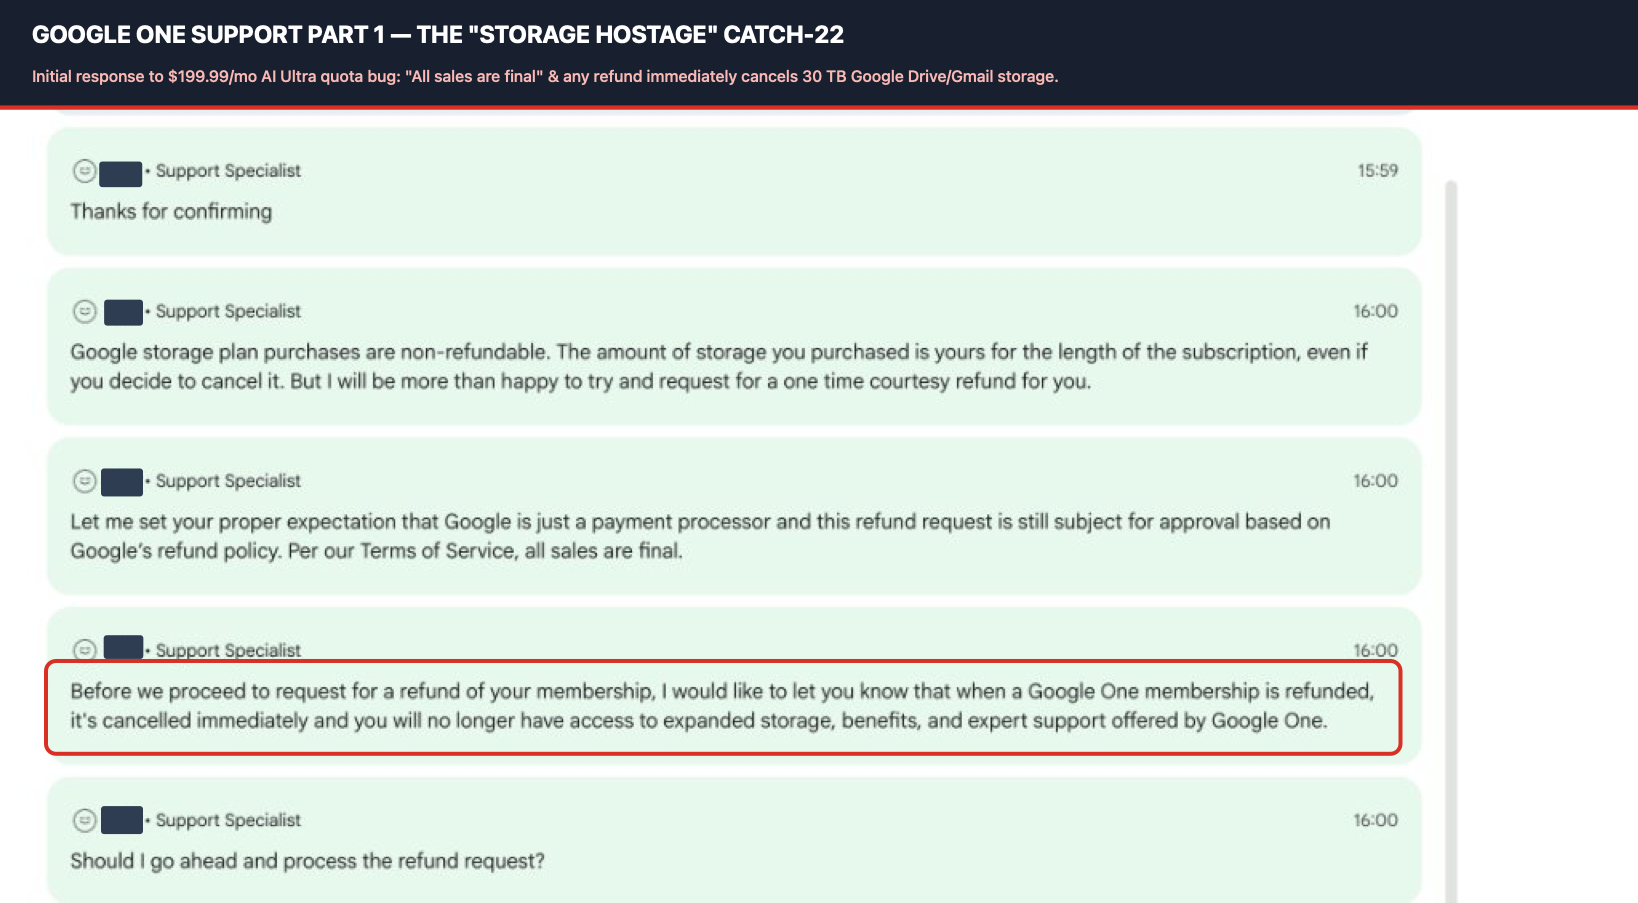
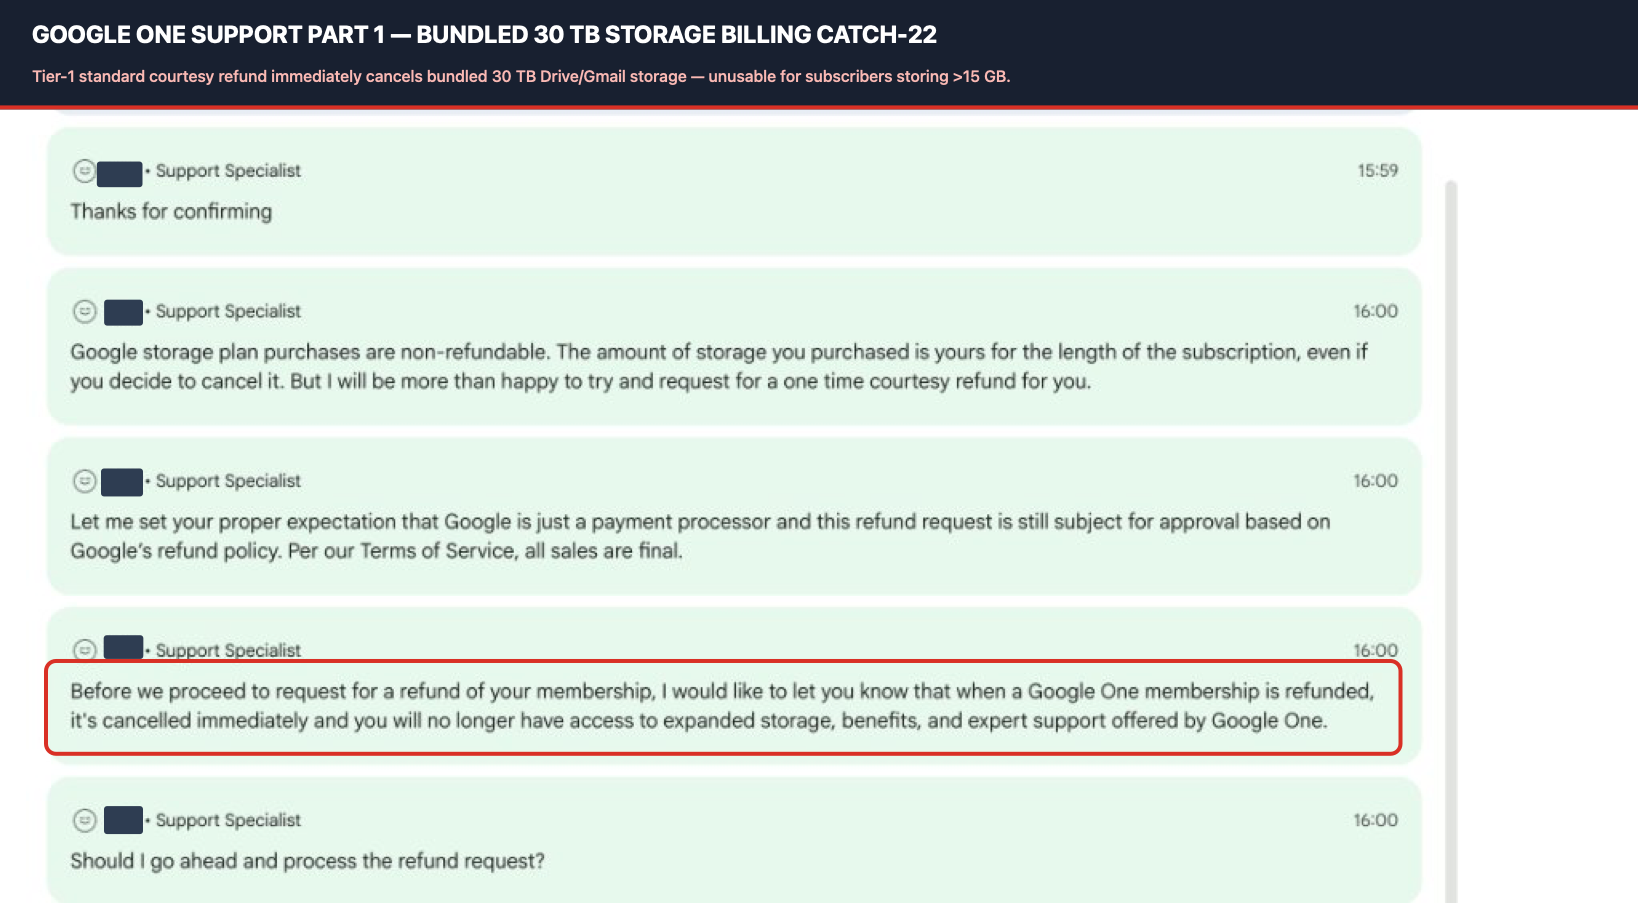
Refine support billing catch-22 section with neutral, objective framing

Changed region(s): [[0.0, 0.031, 0.6538, 0.093]]

diff --git a/README.md b/README.md
@@ -9,7 +9,7 @@ The local protobuf records sent back by Google's `daily-cloudcode-pa.googleapis.
    - Starting **Nov 17**, selecting `Gemini 4 Hydrogen (High)` silently switched from `gemini-4-hydrogen` (`enum 1525`, avg reasoning `1,673–2,630` tokens) to **`gemini-4-hydrogen-tiered-high`** (`enum 1530`, avg reasoning cut >60% to `369–628` tokens).
    - **6,699 calls** labeled in UI metadata as `Gemini 4 Hydrogen (Orchestrator)` actually executed against an undocumented **`gemini-flash-worker-agy`** (`enum 1669`) endpoint.
 3. **`thinking_tokens = 0` Pipeline Regressions:** On `Gemini 4 Argon (Medium)`, calls returning `thinking_tokens = 0` jumped from **`0.3%` (`1/337`)** on Nov 12–13 to **`25.2%`** on Nov 16 and **`64.9%` (`50/77`, median thinking = `0`)** on Nov 19. On Nov 17, `Gemini 4 Carbon (Low)` hit **`100%` (`7/7`)** zero-thinking calls before recovering on Nov 20.
-4. **The Google One "Storage Hostage" Support Catch-22:** Empty failed server responses still drained paid quota until triggering `HTTP 429 RESOURCE_EXHAUSTED`. Yet when presented with exact server `ResponseID`s, Google One Tier-1 Support initially stated that *"all sales are final"* and that issuing a courtesy refund **immediately cancels the entire Google One membership and revokes 30 TB Google Drive/Gmail storage**—forcing subscribers with multi-terabyte Drive data to choose between absorbing server billing bugs or having their email/storage locked.
+4. **Bundled Google One Storage Billing Catch-22:** Empty failed server responses still drained paid quota until triggering `HTTP 429 RESOURCE_EXHAUSTED`. Yet when presented with exact server `ResponseID`s, Google One Tier-1 Support initially stated that *"all sales are final"* and that issuing a courtesy refund **immediately cancels the entire Google One membership and revokes 30 TB Google Drive/Gmail storage**—forcing subscribers with multi-terabyte Drive data to choose between absorbing server billing bugs or having their email/storage locked.
 
 Included in this repository:
 * **[`audit_antigravity_sqlite.py`](./audit_antigravity_sqlite.py)** — ~220-line zero-dependency, read-only Python 3 script so any Pro/Ultra subscriber on macOS, Linux, or Windows can audit their own local `~/.gemini/antigravity/conversations/*.db` files in 5 seconds.
@@ -100,7 +100,7 @@ ResponseIDs: wHT-apWMLs_l****, y3T-auazErDc****, -XT-avTQFv_b****, KXX-aoCaH__b*
 
 ---
 
-## 5. The Google One Support Catch-22 ("Storage Hostage" Policy)
+## 5. Bundled Google One Storage Billing Catch-22 (PSA for Subscribers)
 
 Because Google bundles developer AI Ultra quotas with **Google One cloud storage (30 TB)** under a single **$199.99/month** subscription, I contacted Google One Support (full PII-scrubbed chat log in [`SUPPORT_TRANSCRIPT_REDACTED.md`](./SUPPORT_TRANSCRIPT_REDACTED.md)) with the exact server `ResponseID`s and SQLite telemetry requesting a **non-cancelling service credit** for the Nov 15–20 regression window.
 
@@ -109,13 +109,13 @@ Because Google bundles developer AI Ultra quotas with **Google One cloud storage
 
 ![Google One Support Storage Hostage Catch-22](./images/02_support_storage_hostage.png)
 
-* For any subscriber storing `>15 GB` (in my case, **3.5 TB** across Google Drive and Gmail), immediate cancellation locks Gmail send/receive and freezes Drive writes—effectively turning bundled cloud storage into a **switching/refund hostage** when AI compute quotas malfunction.
+* For any subscriber storing `>15 GB` (in my case, **3.5 TB** across Google Drive and Gmail), immediate cancellation locks Gmail send/receive and freezes Drive writes—creating a structural catch-22 where subscribers with >15 GB of data cannot accept standard Tier-1 refund relief for AI outages without disrupting Gmail and Drive.
 * **Tier-2 Escalation Outcome:** Only *after* explicitly rejecting the cancellation trap and uploading the raw SQLite `gen_metadata` protobuf traces + server `ResponseID`s did Tier-2 Support reverse the initial "impossible/immediate-cancellation" stance and offer in writing:
   > *"May I please know how would you like us to proceed as we can offer you either 2,000 AI credits or a refund of your last plan charge without cancelling your plan?"*
   *(Selected the non-cancelling full refund of the last monthly charge; Support subsequently clarified that this option remains "under review for approval" by their higher specialists team via email with no committed timeframe.)*
 
 ![Google One Tier-2 Reversal After Raw SQLite Telemetry](./images/03_tier2_reversal_after_telemetry.png)
-* **Takeaway for Pro & Ultra Subscribers:** Google's Tier-1 support defaults to deterring valid defect claims by threatening immediate termination of bundled Google Drive/Gmail storage, and even when presented with hard server `ResponseID`s, non-cancelling compensation is gated behind opaque, open-ended "higher specialist" review with no committed SLA.
+* **Takeaway for Pro & Ultra Subscribers:** Tier-1 agents are constrained to a standard Google One cancellation-refund workflow that terminates Drive/Gmail storage; subscribers seeking compensation for AI quota bugs without losing storage must explicitly decline Tier-1 cancellation and escalate to Tier-2 with raw server `ResponseID`s (which remains subject to manual review with no committed SLA).
 
 ---
 
